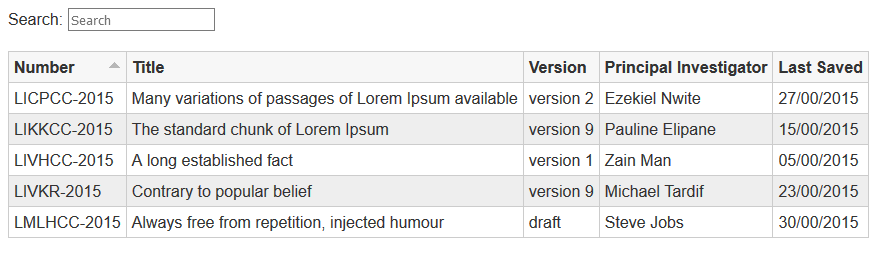
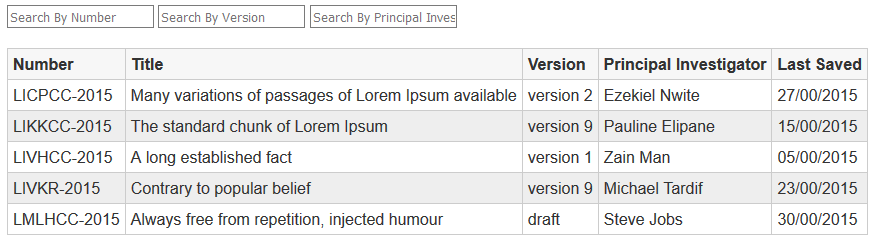
added new search box

Changed region(s): [[0.0, 0.1721, 1.0, 0.9754], [0.0, 0.0, 0.5228, 0.1434], [0.5843, 0.4877, 0.8303, 0.5451]]

diff --git a/implementation.html b/implementation.html
@@ -11,7 +11,9 @@
 </head>
 <body>
 	<div data-ng-controller = "ngSortTableHeader">
-		Search: <input type="text" placeholder="Search" data-ng-model="searchText">
+		<input type="text" placeholder="Search By Number" data-ng-model="searchText.sNumber">
+		<input type="text" placeholder="Search By Version" data-ng-model="searchText.version">
+		<input type="text" placeholder="Search By Principal Investigator" data-ng-model="searchText.pInvestigator">
 		<br><br>
 		<table>
 			<thead>
@@ -24,7 +26,7 @@
 				</tr>
 			</thead>
 			<tbody>
-				<tr data-ng-repeat="protocol in protocols | orderBy:columnName:revSort | filter:searchText" data-ng-class="$even ? 'odd' : 'even'">
+				<tr data-ng-repeat="protocol in protocols | orderBy:columnName:revSort | filter:searchText:exactMatch" data-ng-class="$even ? 'odd' : 'even'">
 					<td>{{ protocol.sNumber | uppercase }}</td>
 					<td>{{ protocol.title }}</td>
 					<td>{{ protocol.version | lowercase }}</td>
